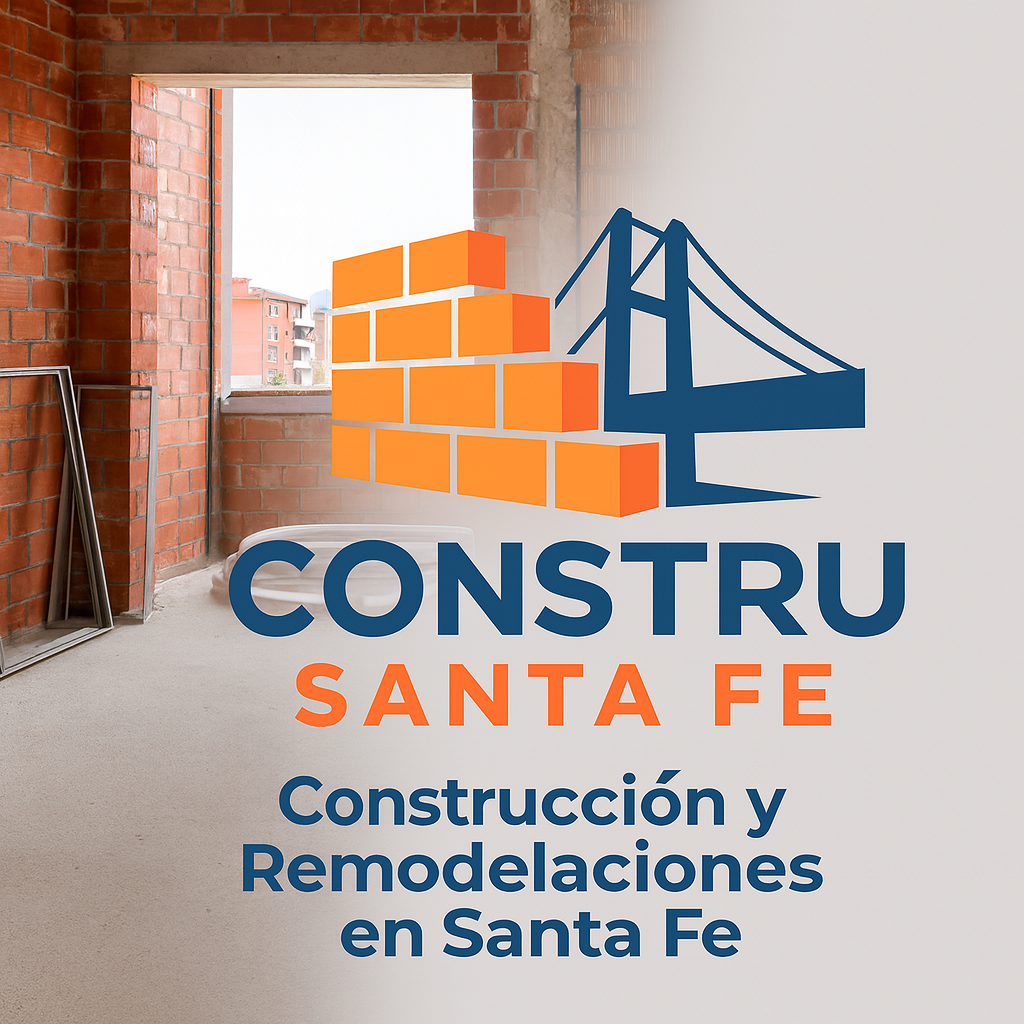
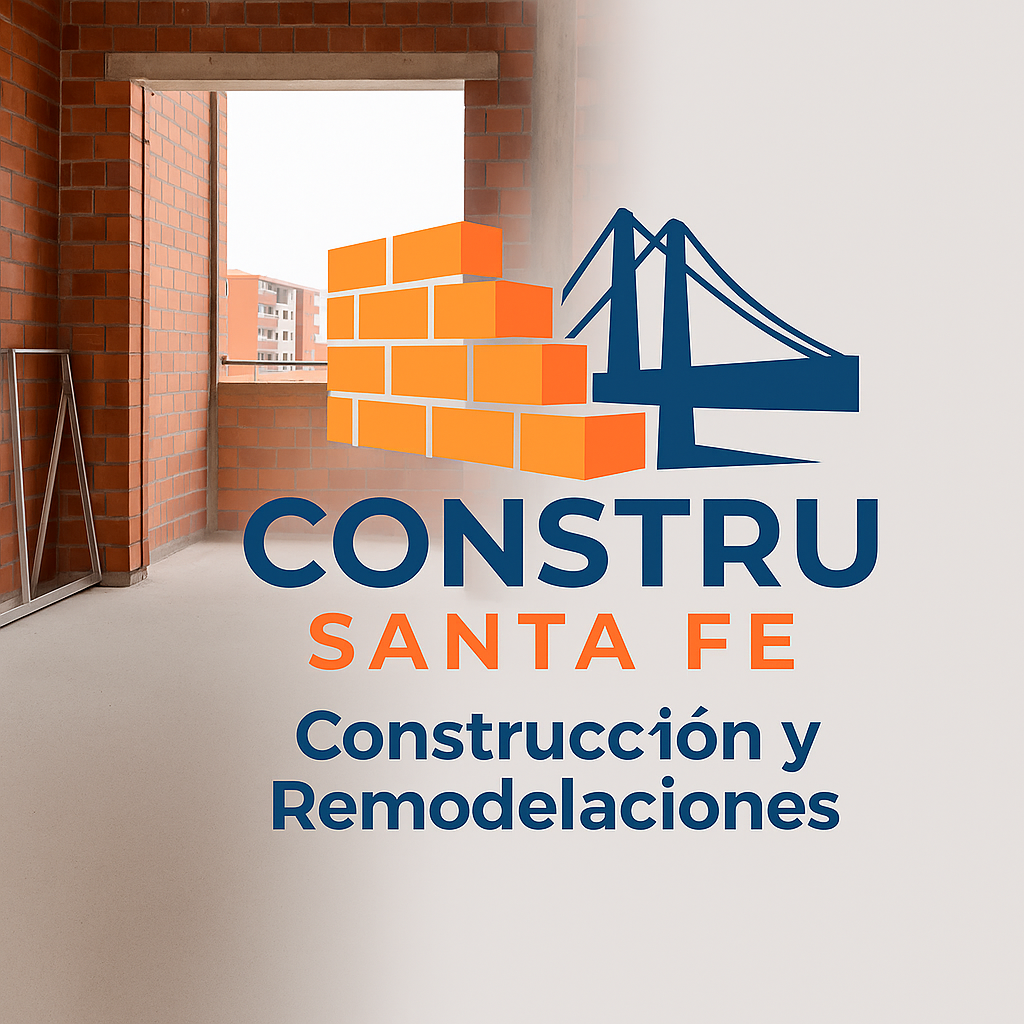
fix(preview): unificar imagen OG/Twitter a construsantafepreview.png

diff --git a/index.html b/index.html
@@ -9,40 +9,27 @@
 
     <!-- Título y descripción -->
     <title>Constru Santa Fe | Construcción y Remodelación</title>
-    <meta
-      name="description"
-      content="Construcción, remodelaciones y mantenimiento en Santa Fe y alrededores. Pedí tu presupuesto sin cargo por WhatsApp."
-    />
-    <meta
-      name="keywords"
-      content="construcción Santa Fe, remodelaciones, albañilería, obras, reformas, mantenimiento"
-    />
+    <meta name="description" content="Construcción, remodelaciones y mantenimiento en Santa Fe y alrededores. Pedí tu presupuesto sin cargo por WhatsApp." />
+    <meta name="keywords" content="construcción Santa Fe, remodelaciones, albañilería, obras, reformas, mantenimiento" />
     <link rel="canonical" href="https://construsantafe.com/" />
 
-    <!-- Open Graph -->
+    <!-- Open Graph (todas las redes usan la misma imagen) -->
     <meta property="og:title" content="Constru Santa Fe | Construcción y Remodelación" />
     <meta property="og:description" content="Mirá nuestros trabajos y pedí tu presupuesto sin cargo." />
     <meta property="og:type" content="website" />
     <meta property="og:url" content="https://construsantafe.com/" />
     <meta property="og:site_name" content="Constru Santa Fe" />
     <meta property="og:locale" content="es_AR" />
-
-    <!-- Imagen 1 (WhatsApp) -->
-    <meta property="og:image" content="https://construsantafe.com/brand/construsantafe_og_square.jpg?v=5" />
-    <meta property="og:image:width" content="1200" />
-    <meta property="og:image:height" content="1200" />
-
-    <!-- Imagen 2 (Facebook / LinkedIn / Twitter) -->
-    <meta property="og:image" content="https://construsantafe.com/brand/construsantafepreview3.jpg?v=5" />
-    <meta property="og:image:width" content="1200" />
-    <meta property="og:image:height" content="630" />
+    <meta property="og:image" content="https://construsantafe.com/brand/construsantafepreview.png?v=6" />
     <meta property="og:image:alt" content="Constru Santa Fe - Construcción y Remodelaciones" />
+    <meta property="og:image:width" content="1024" />
+    <meta property="og:image:height" content="1024" />
 
-    <!-- Twitter Card -->
+    <!-- Twitter Card (misma imagen) -->
     <meta name="twitter:card" content="summary_large_image" />
     <meta name="twitter:title" content="Constru Santa Fe | Construcción y Remodelación" />
     <meta name="twitter:description" content="Obras, reformas y mantenimiento. Contactanos por WhatsApp." />
-    <meta name="twitter:image" content="https://construsantafe.com/brand/construsantafepreview3.jpg?v=5" />
+    <meta name="twitter:image" content="https://construsantafe.com/brand/construsantafepreview.png?v=6" />
 
     <!-- Color del navegador -->
     <meta name="theme-color" content="#0f172a" />
@@ -53,10 +40,7 @@
       "@context": "https://schema.org",
       "@type": "LocalBusiness",
       "name": "Constru Santa Fe",
-      "image": [
-        "https://construsantafe.com/brand/construsantafe_og_square.jpg?v=5",
-        "https://construsantafe.com/brand/construsantafepreview3.jpg?v=5"
-      ],
+      "image": "https://construsantafe.com/brand/construsantafepreview.png?v=6",
       "url": "https://construsantafe.com/",
       "telephone": "+54 342 5829061",
       "email": "construsantafeinfo@gmail.com",
